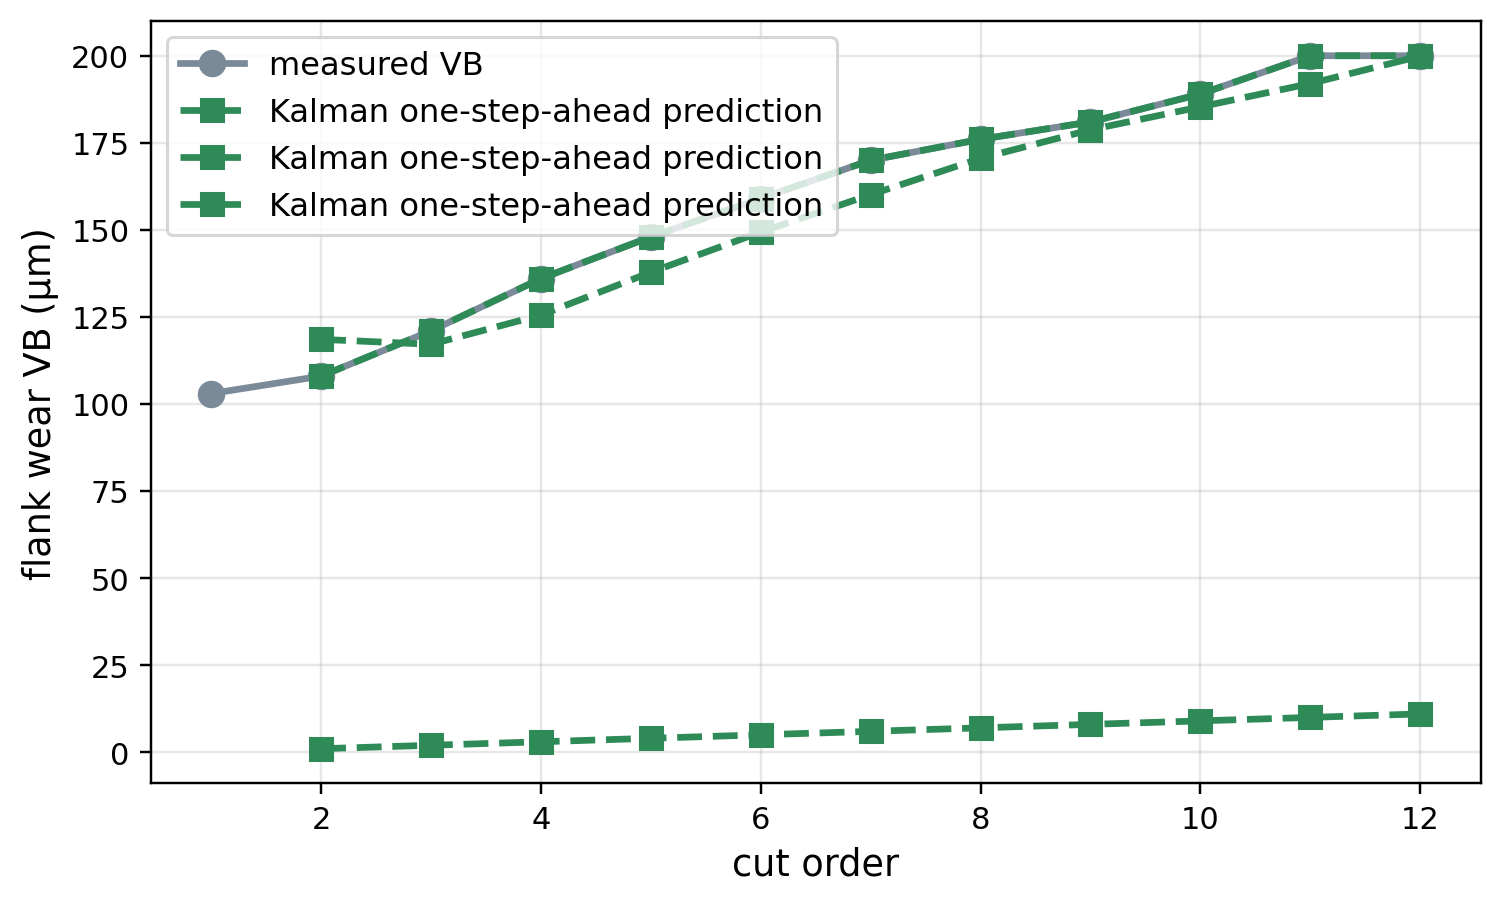
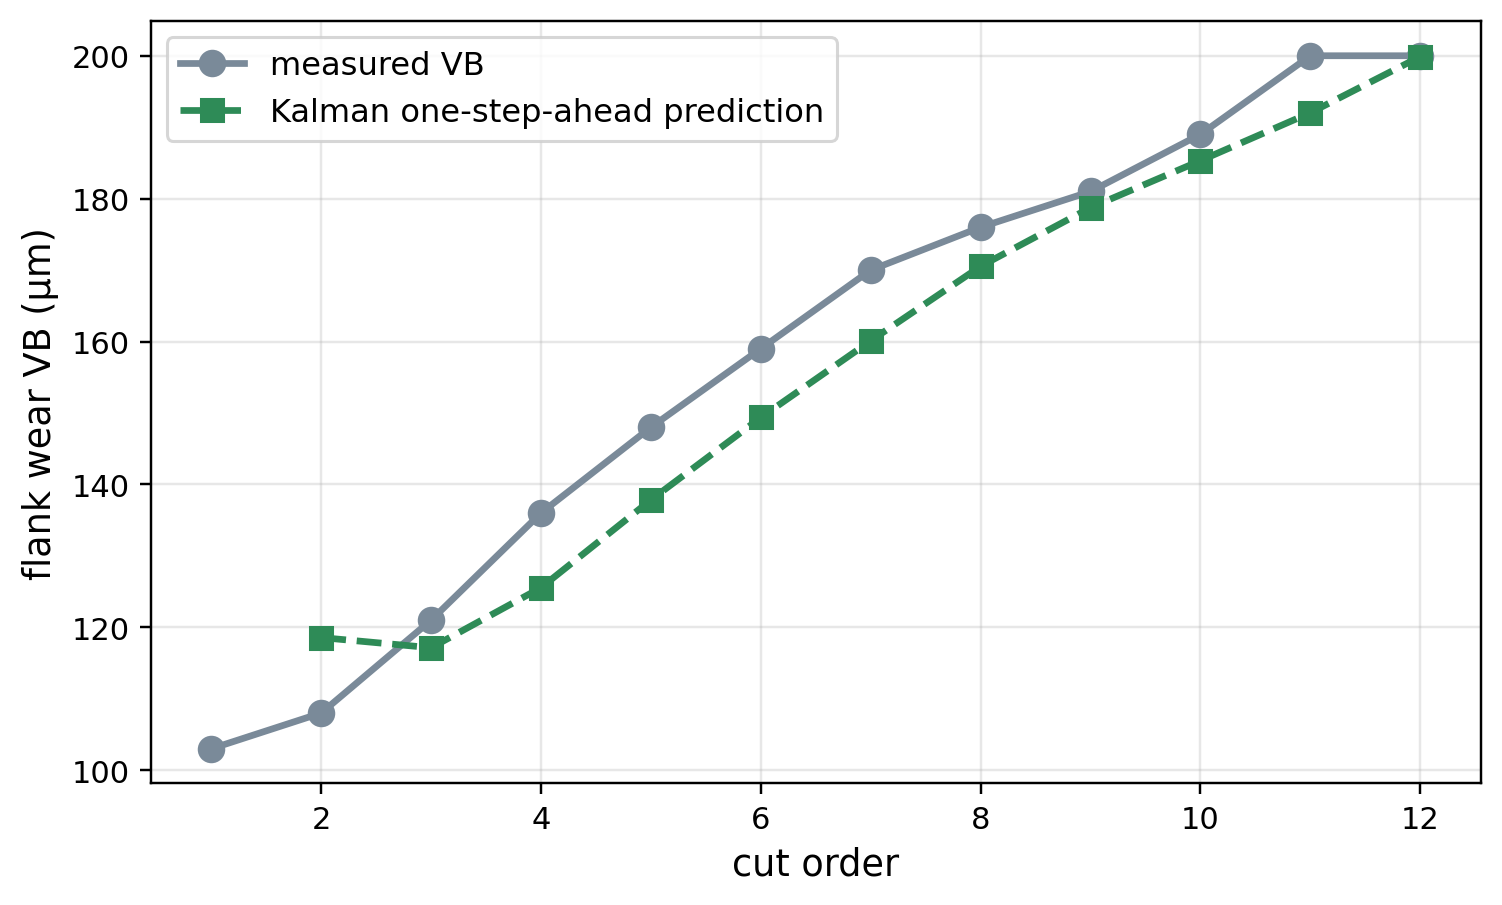
fix(fig): paper_kalman plotted the (pred,true,k) tuples raw — triple legend + loop index as a series; unpack properly

diff --git a/scripts/make_paper_figures.py b/scripts/make_paper_figures.py
@@ -201,10 +201,12 @@ def fig_kalman():
     tr = d[d.tool_id != tt]; g = d[d.tool_id == tt].sort_values("order")
     o, v = g.order.to_numpy(float), g.vb.to_numpy(float)
     p = fit_global_p(tr)
-    preds = kf_online_onestep(tr, o, v, p)          # one-step predictions for cuts 2..n
+    preds = kf_online_onestep(tr, o, v, p)          # list of (pred, true, k) for cuts 2..n
+    arr = np.array([(pp, kk) for pp, _, kk in preds])
+    yhat, kk = arr[:, 0], arr[:, 1].astype(int)
     fig, ax = plt.subplots(figsize=(7.8, 4.5))
     ax.plot(o, v, "-o", color=GREY, lw=2.2, ms=8, label="measured VB")
-    ax.plot(o[1:len(preds) + 1], preds, "--s", color=GREEN, lw=2.2, ms=7,
+    ax.plot(o[kk], yhat, "--s", color=GREEN, lw=2.2, ms=7,
             label="Kalman one-step-ahead prediction")
     ax.set_xlabel("cut order", fontsize=12); ax.set_ylabel("flank wear VB (µm)", fontsize=12)
     ax.grid(alpha=0.3); ax.legend(fontsize=10.5, loc="upper left")